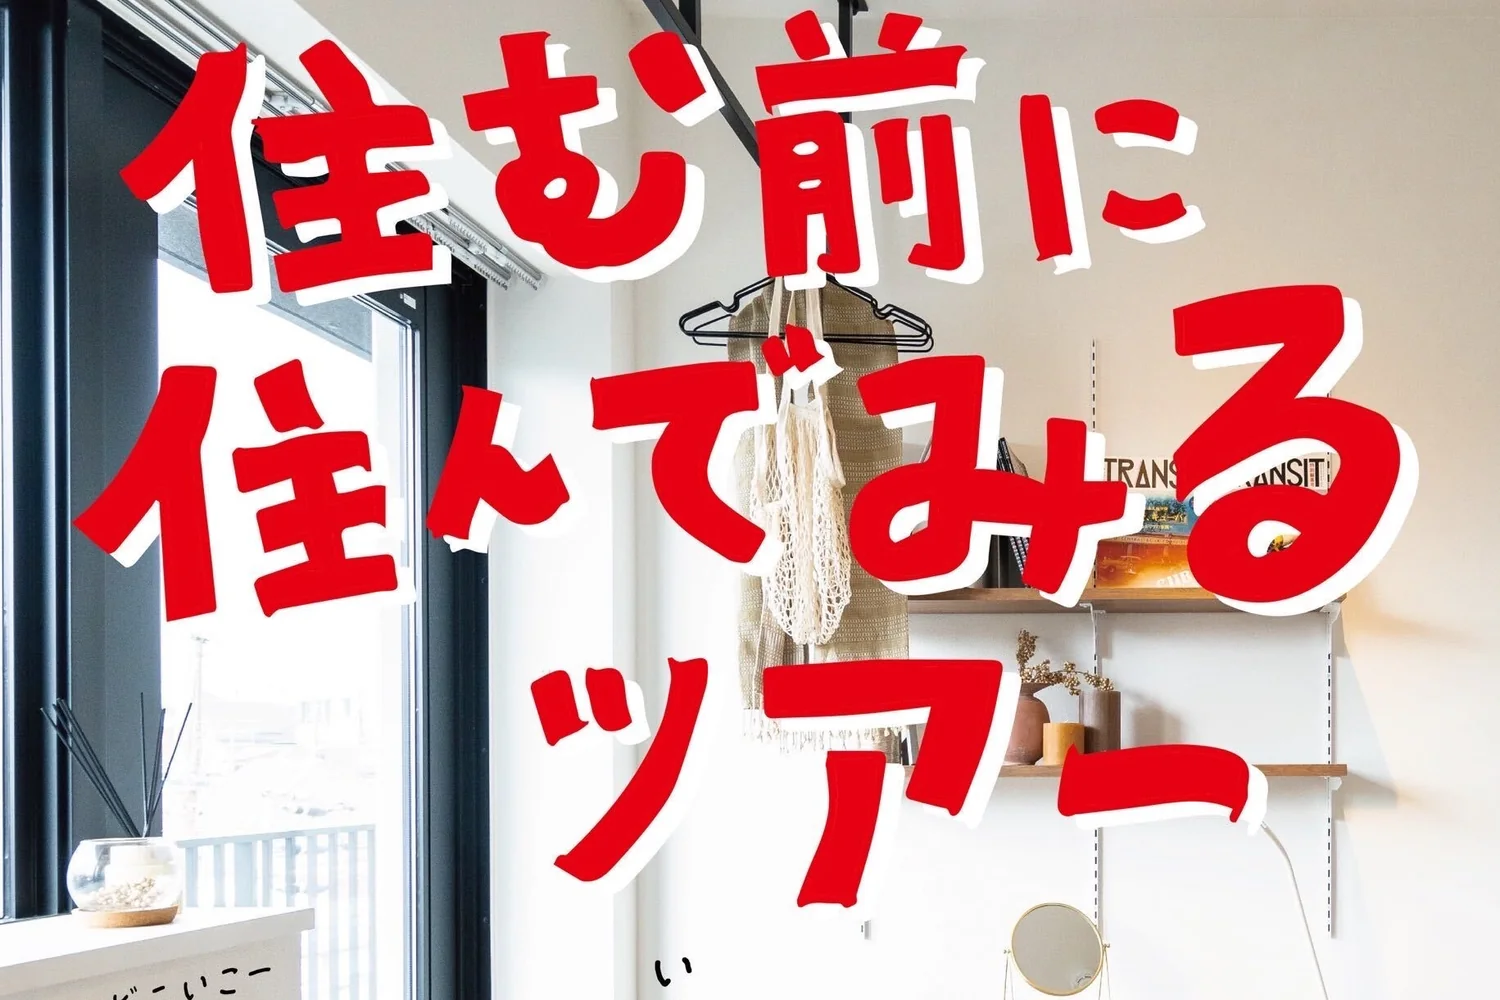
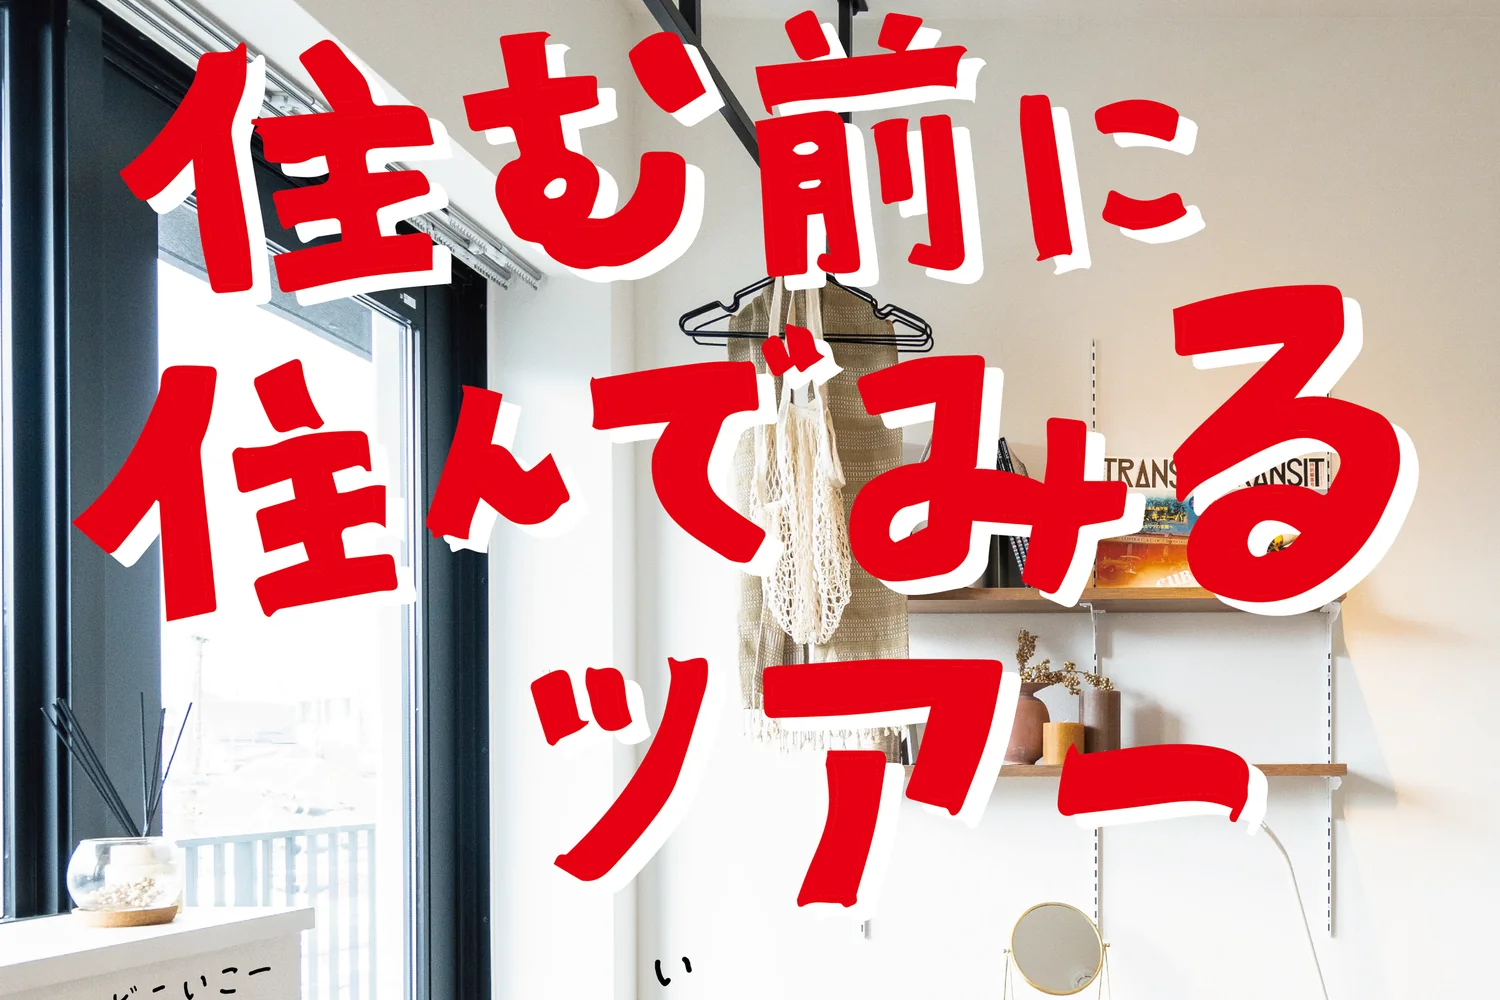
feat(exhibitors): ツアーの画像・文案を更新し、予約フォームを追加
いただいた最新版に差し替えた。

- 画像を tour.jpg から tour.png へ。前の画像はポスターの日付が
  「11.13 & 14」になっていたが、新しい画像は「11.14 & 15」で
  本祭の会期と一致している。旧 jpg は削除した。
- 文案の「シェアハウス」を「シェアハウスマンション」に修正
- 予約フォームへのボタンを追加（別タブで開く）

原本は 10.4MB あるため、配信用に WebP（127KB）を用意した。
3:2 表示でタイトルが欠けないよう、前回と同じ比率の位置で切り出している。

diff --git a/index.html b/index.html
@@ -498,7 +498,7 @@
           </p>
           <h3 class="exhibit__title">住む前に住んでみるツアー</h3>
           <p>
-            シモキタカレッジは、高校生から社会人までのさまざまなバックグラウンドの人たちが一緒に暮らす、下北沢にあるシェアハウスです。
+            シモキタカレッジは、高校生から社会人までのさまざまなバックグラウンドの人たちが一緒に暮らす、下北沢にあるシェアハウスマンションです。
           </p>
           <p>
             今回のツアーは、ただ建物を見学するだけではありません。
@@ -507,6 +507,13 @@
           <p>
             「ここに住んだら、どんな毎日が待っているんだろう？」<br>
             そんな想像を、ちょっと先取りしてみませんか？
+          </p>
+          <p class="exhibit__actions">
+            <a class="btn btn--primary"
+               href="https://docs.google.com/forms/d/e/1FAIpQLSefQ9r_jOmS2Xf33XaVBTqMJ-LJca1OPB-GDoHDDo40kr-xqQ/viewform"
+               target="_blank" rel="noopener">
+              予約フォームへ <span aria-hidden="true">↗</span>
+            </a>
           </p>
         </div>
       </article>

diff --git a/assets/css/style.css b/assets/css/style.css
@@ -716,6 +716,15 @@ li { list-style: none; }
 }
 .exhibit__body p:not(.exhibit__tags):last-of-type { margin-bottom: 0; }
 
+/* 予約フォームなど、企画ごとのボタン */
+.exhibit__actions {
+  margin-top: 18px !important;
+}
+.exhibit__actions .btn {
+  padding: 10px 22px;
+  font-size: .84rem;
+}
+
 /* 企画者・連絡先（掲載希望があった企画のみ） */
 .exhibit__by {
   margin-top: auto;
